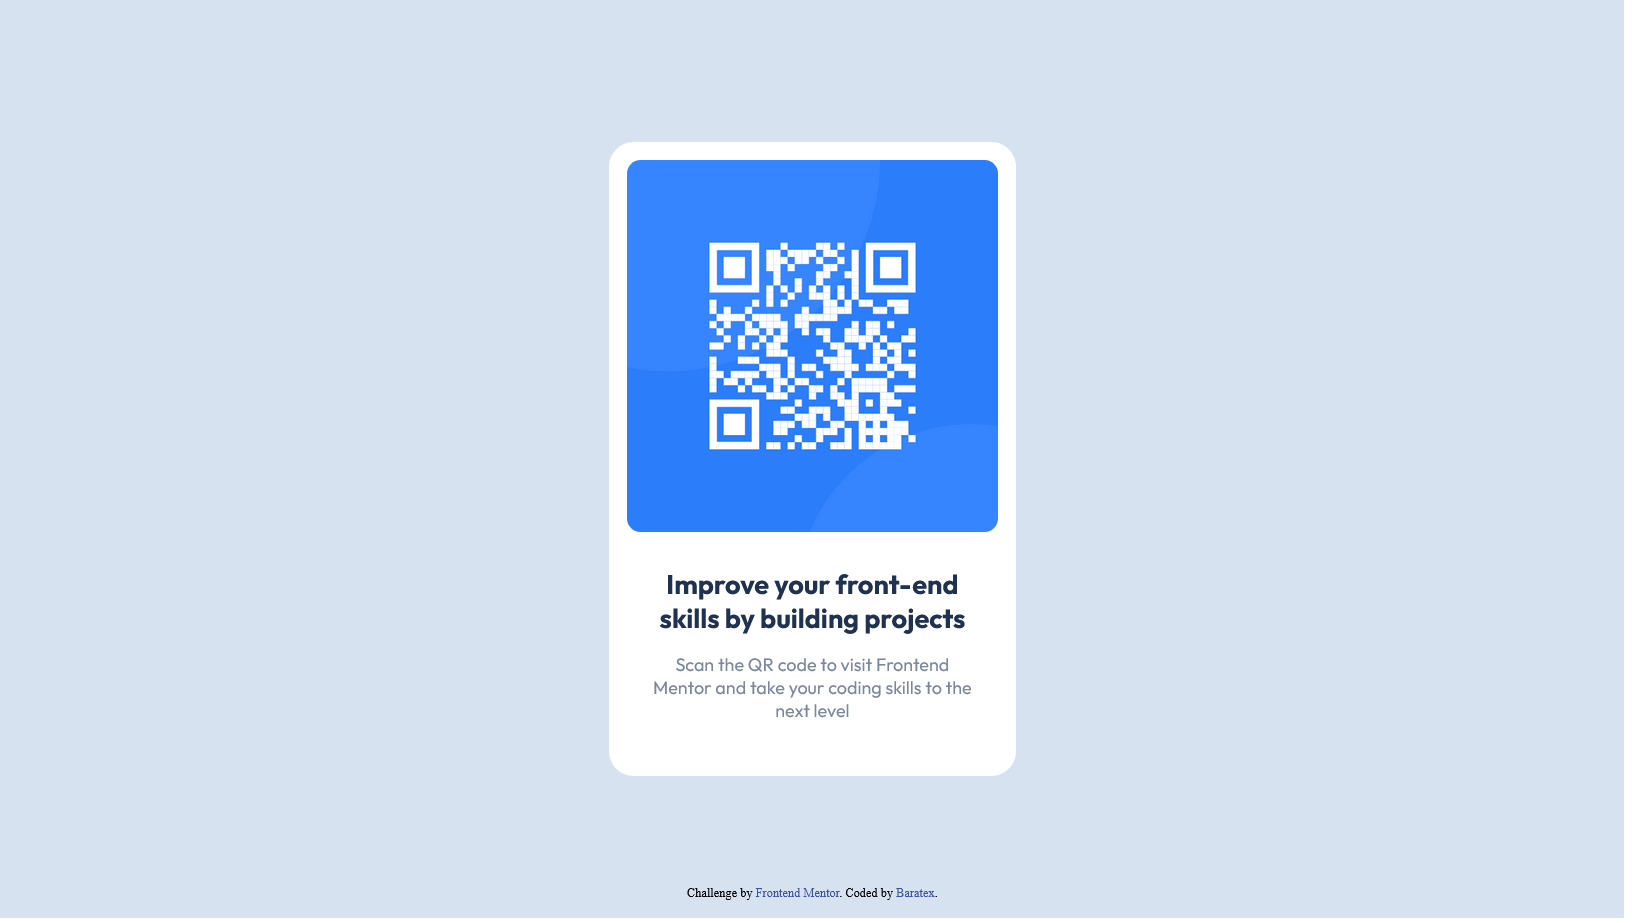
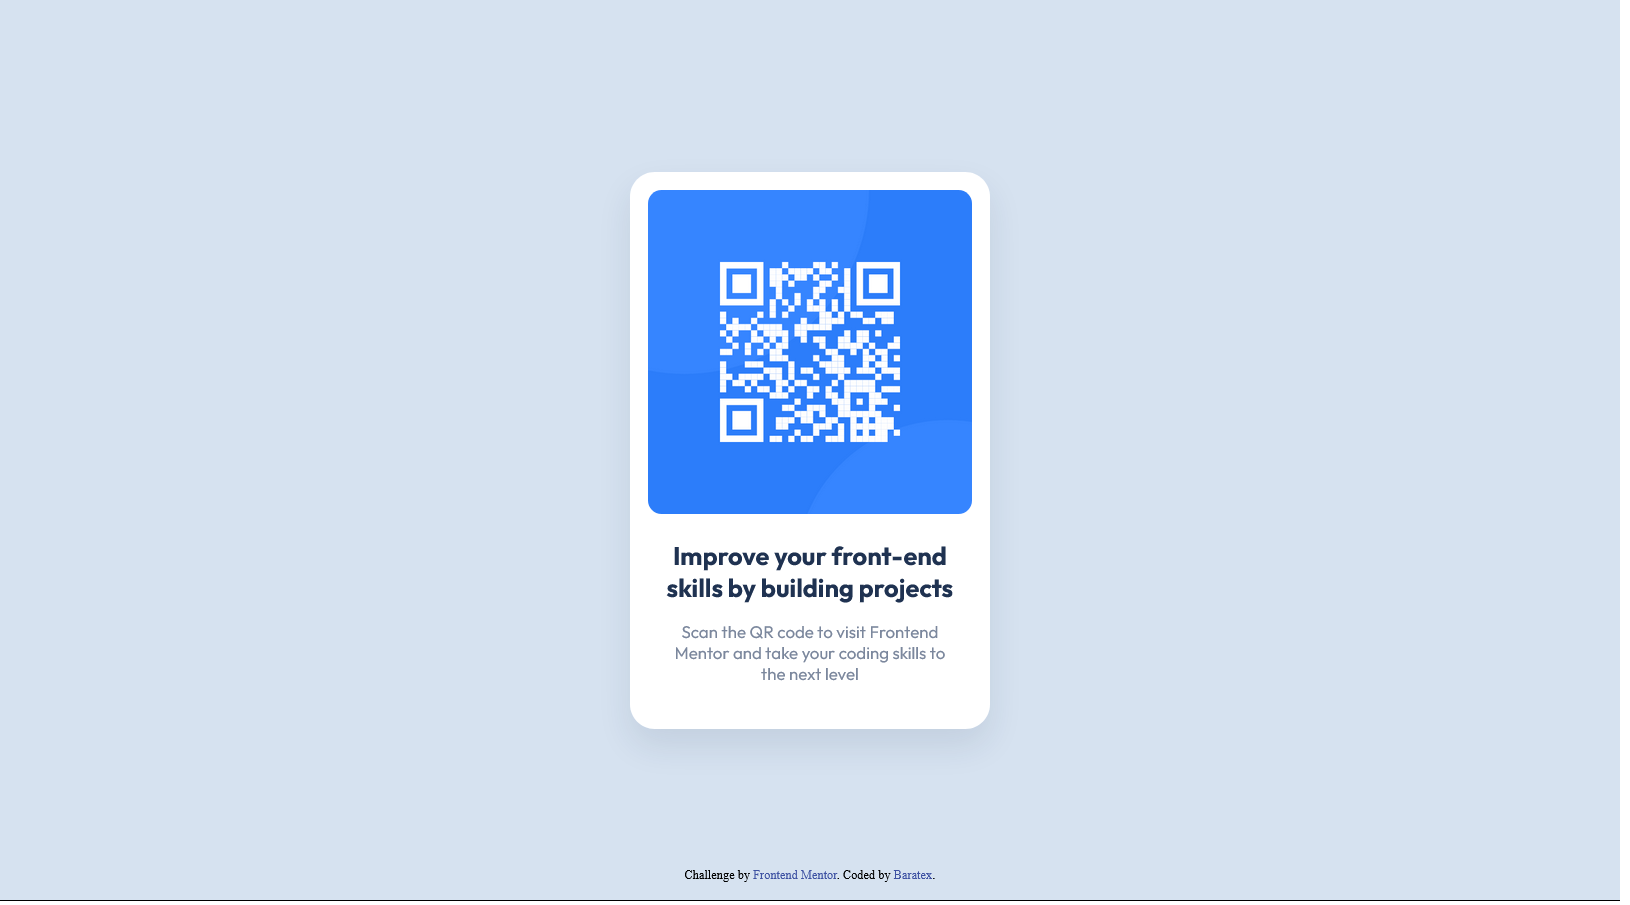
responsive improvement and change sizes

Changed region(s): [[0.3681, 0.1547, 0.6442, 0.8663], [0.0, 0.9591, 0.9816, 1.0]]

diff --git a/index.html b/index.html
@@ -1,36 +1,36 @@
 <!DOCTYPE html>
 <html lang="en">
-<head>
-  <meta charset="UTF-8">
-  <meta name="viewport" content="width=device-width, initial-scale=1.0"> <!-- displays site properly based on user's device -->
+  <head>
+    <meta charset="UTF-8">
+    <meta name="viewport" content="width=device-width, initial-scale=1.0"> <!-- displays site properly based on user's device -->
 
-  <link rel="icon" type="image/png" sizes="32x32" href="./images/favicon-32x32.png">
-  <link rel="stylesheet" href="style.css" />
-  
-  <title>Frontend Mentor | QR code component</title>
+    <link rel="icon" type="image/png" sizes="32x32" href="./images/favicon-32x32.png">
+    <link rel="stylesheet" href="style.css" />
+    
+    <title>Frontend Mentor | QR code component</title>
 
-  <link rel="preconnect" href="https://fonts.googleapis.com">
-  <link rel="preconnect" href="https://fonts.gstatic.com" crossorigin>
-  <link href="https://fonts.googleapis.com/css2?family=Outfit:wght@400;700&display=swap" rel="stylesheet"> 
-</head>
-<body>
-  <article>
-    <div class="article-container">
-      <img src="./images/image-qr-code.png" alt="qr-code - frontendmentor challenge" />
+    <link rel="preconnect" href="https://fonts.googleapis.com">
+    <link rel="preconnect" href="https://fonts.gstatic.com" crossorigin>
+    <link href="https://fonts.googleapis.com/css2?family=Outfit:wght@400;700&display=swap" rel="stylesheet"> 
+  </head>
+  <body>
+    <article>
+      <div class="article-container">
+        <img src="./images/image-qr-code.png" alt="qr-code to https://www.frontendmentor.io" />
 
 
-      <div class="text">
-        <h1>Improve your front-end skills by building projects</h1>
+        <div class="text">
+          <h1>Improve your front-end skills by building projects</h1>
 
-        <p>Scan the QR code to visit Frontend Mentor and take your coding skills to the next level</p>
+          <p>Scan the QR code to visit Frontend Mentor and take your coding skills to the next level</p>
+        </div>
+
+    </article>
+    <footer>
+      <div class="attribution">
+        Challenge by <a href="https://www.frontendmentor.io?ref=challenge" target="_blank">Frontend Mentor</a>. 
+        Coded by <a href="https://www.frontendmentor.io/profile/baratex">Baratex</a>.
       </div>
-
-  </article>
-  <footer>
-    <div class="attribution">
-      Challenge by <a href="https://www.frontendmentor.io?ref=challenge" target="_blank">Frontend Mentor</a>. 
-      Coded by <a href="https://www.frontendmentor.io/profile/baratex">Baratex</a>.
-    </div>
-  </footer>
-</body>
+    </footer>
+  </body>
 </html>

diff --git a/style.css b/style.css
@@ -22,6 +22,7 @@ body{
     justify-content: center;
     background-color: var(--background-color);
     position: relative;
+    font-size: 15px;
 
 }
 
@@ -29,13 +30,14 @@ article{
     border-radius: 22px;
     background-color: var(--container-color);
     margin:1.5rem;
+    box-shadow: 0 15px 29px hsla(218, 44%, 22%, 0.1);
 }
 
 .article-container{
     display: flex;
     flex-direction: column;
-    width: 330px;
-    margin: 1rem;
+    width: min(288px, 80vw);
+    margin: 1rem; 
 }
 
 img{
@@ -43,12 +45,13 @@ img{
 }
 
 .text{
-    margin: 2rem 1rem;
+    margin: 1.5rem 1rem;
 }
 
 h1, p{
     text-align: center;
     font-family: var(--text-font);
+    
 }
 
 h1{
@@ -57,7 +60,7 @@ h1{
 }
 
 p{
-    margin-top: 1rem;
+    margin-top: 1em;
     color:var(--text-color);
     font-weight: var(--text-normal);
 }
@@ -74,9 +77,3 @@ footer{
     color: hsl(228, 45%, 44%); 
     text-decoration: none;
 }
-
-@media only screen and (max-width: 600px) {
-    .article-container {
-      width: min(330px, 80vw);
-    }
-  }
